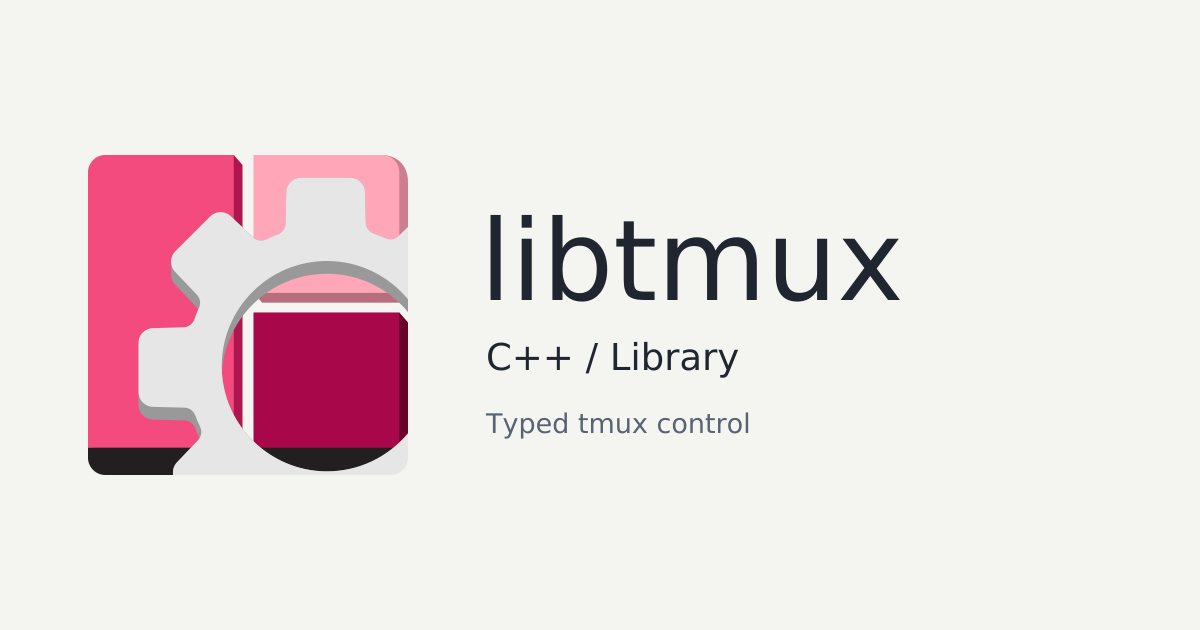
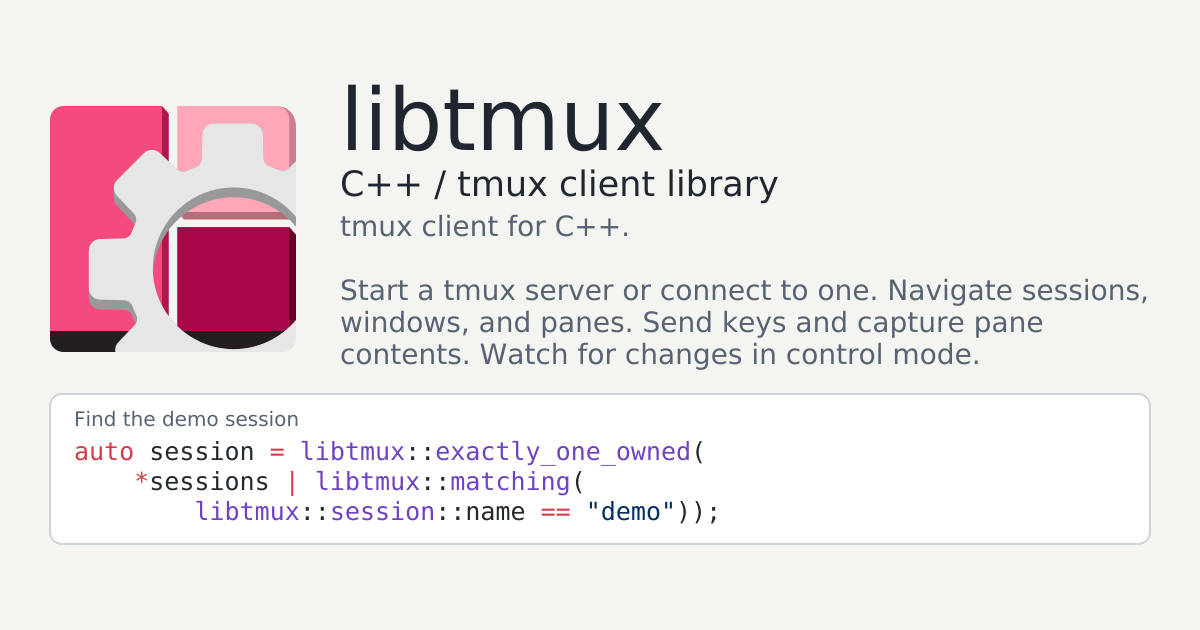
Docs(brand): Show a query on the sharing card
why: Sharing a library link should show how to query tmux in that
language.

what:
- Copy the reviewed sharing artwork and record its source revision

Changed region(s): [[0.0308, 0.1206, 0.9558, 0.8746]]

diff --git a/assets/README.md b/assets/README.md
@@ -12,3 +12,6 @@ symbol comes from the [upstream logo](https://github.com/modelcontextprotocol/mo
 Package-specific artwork sits beside its README where the package format
 supports it. `.github/social-preview.png` is the cog sharing card, ready to
 upload under the repository's **Settings → Social preview**.
+
+The sharing card comes from `assets/cpp/library/opengraph-light.png`
+at kit revision `c9688d9db25e4c522ff1255d0f3badaf27d780dd`.
